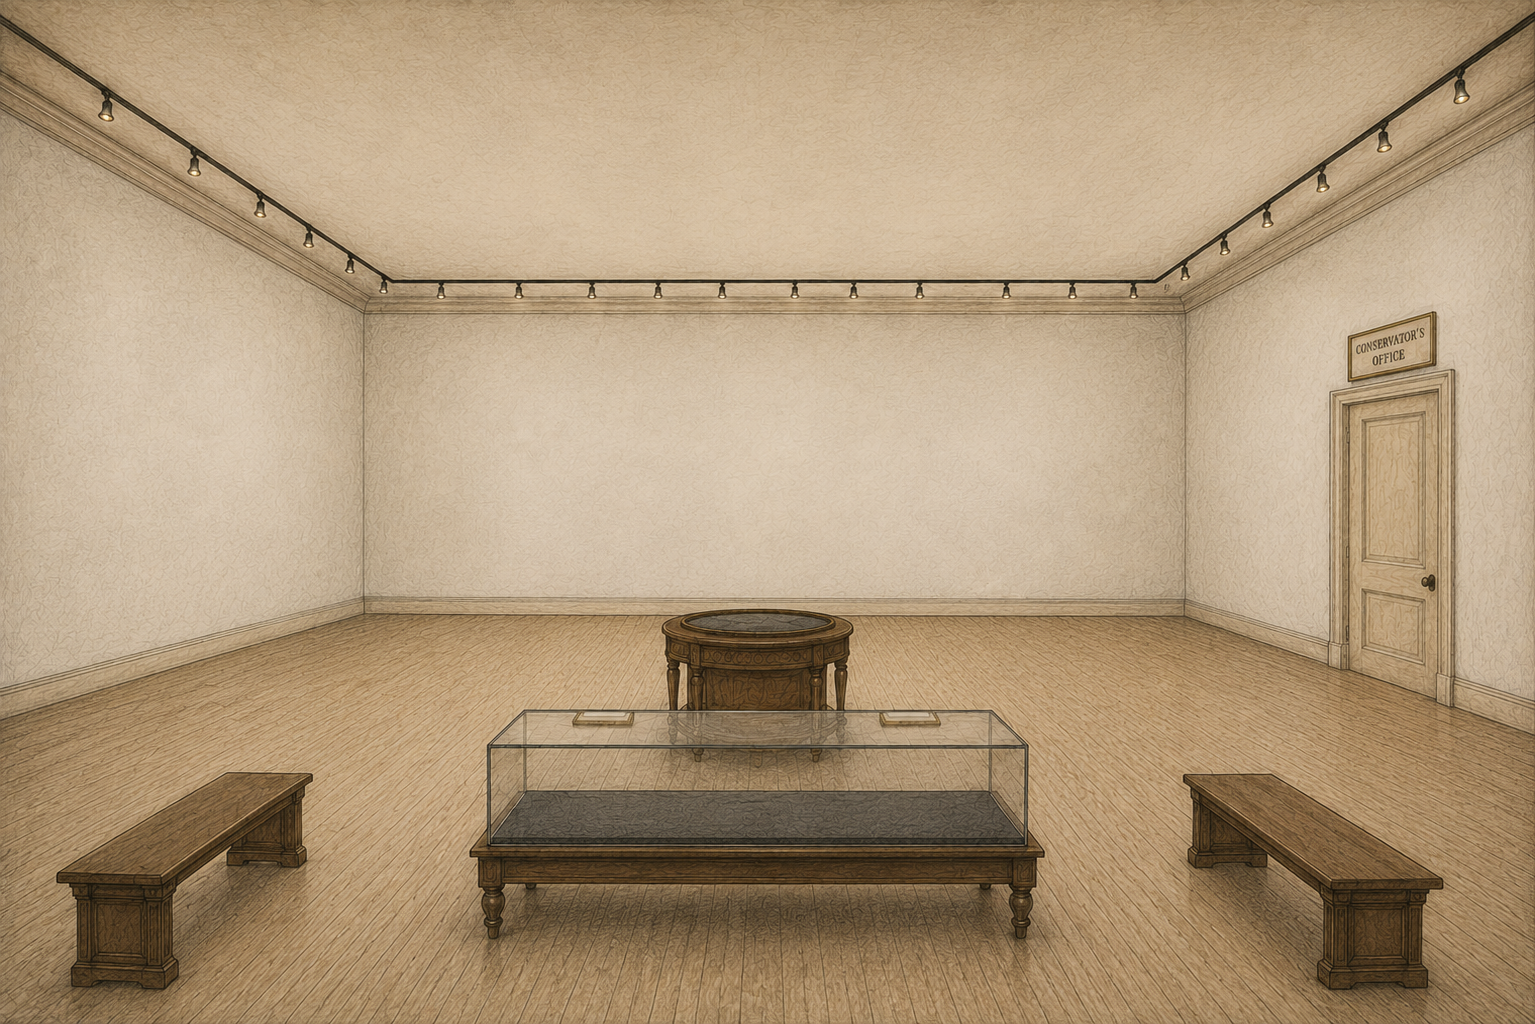
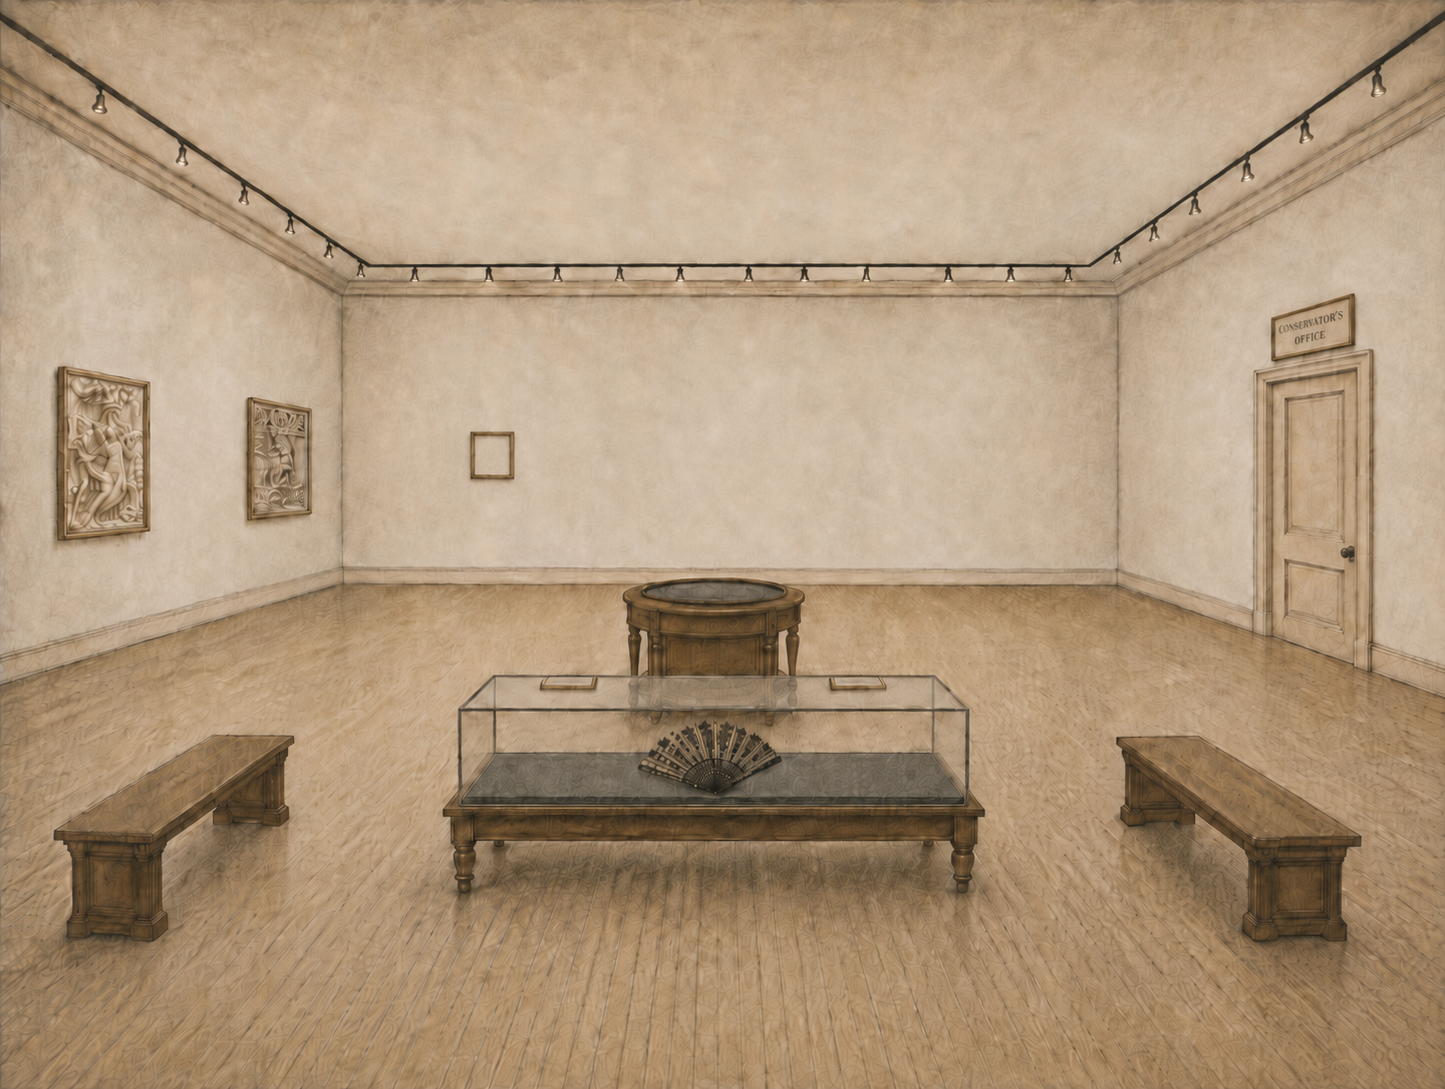
Hook up wall sconce in gallery room with refined SVG overlay positioning

diff --git a/_sass/_custom.scss b/_sass/_custom.scss
@@ -679,23 +679,7 @@
     background: rgba(42, 27, 20, 0.08);
 }
 
-.collection-room-art-hall .art-wall-sconce-display {
-    position: absolute;
-    right: 10.2%;
-    top: 24.9rem;
-    width: 92px;
-    z-index: 4;
-    padding: 0;
-    background: transparent;
-}
 
-.collection-room-art-hall .art-wall-sconce-image {
-    display: block;
-    width: 100%;
-    height: auto;
-    object-fit: contain;
-    filter: drop-shadow(0 8px 10px rgba(0, 0, 0, 0.35));
-}
 
 .welcome-sequence-backdrop {
     position: absolute;
@@ -2225,6 +2209,24 @@
 
 .art-wall-frame-right {
     right: 9.5%;
+}
+
+.art-wall-frame img {
+    position: absolute;
+    inset: 12px;
+    width: calc(100% - 24px);
+    height: calc(100% - 24px);
+    object-fit: contain;
+    border-radius: 12px;
+    cursor: pointer;
+    transition: filter 0.2s ease, transform 0.2s ease;
+}
+
+.art-wall-frame img:hover,
+.art-wall-frame img:focus-visible {
+    filter: brightness(1.08);
+    transform: scale(1.02);
+    outline: none;
 }
 
 .art-access-window {

diff --git a/pages/rooms/gallery.md b/pages/rooms/gallery.md
@@ -26,16 +26,15 @@ permalink: /pages/rooms/gallery.html
         <span class="chandelier-crystal chandelier-crystal-right"></span>
       </div>
 
-      <svg class="art-room-hotspots" viewBox="0 0 1000 1000" preserveAspectRatio="none" xmlns="http://www.w3.org/2000/svg" xmlns:xlink="http://www.w3.org/1999/xlink" aria-label="Gallery room links">
-          <a xlink:href="{{ '/pages/rooms/conservators-office.html' | relative_url }}" aria-label="Enter the Conservator's Office" target="_self">
-          <polygon class="art-room-hotspot" points="873,402 933,389 933,678 873,645" />
-            <text class="art-room-hotspot-label" x="903" text-anchor="middle" font-size="8"><tspan x="903" y="536">Conservator's</tspan><tspan x="903" dy="12">Office</tspan></text>
+      <svg class="art-room-hotspots art-room-hotspots-compact" viewBox="0 0 1000 1000" preserveAspectRatio="none" xmlns="http://www.w3.org/2000/svg" xmlns:xlink="http://www.w3.org/1999/xlink" aria-label="Gallery room links">
+        <a class="art-sconce-trigger" aria-label="View the Roman Wall Sconce" target="_self">
+          <polygon class="art-room-hotspot" points="326,397 354,397 354,437 326,437" />
+        </a>
+        <a xlink:href="{{ '/pages/rooms/conservators-office.html' | relative_url }}" aria-label="Enter the Conservator's Office" target="_self">
+          <polygon class="art-room-hotspot" points="873,352 933,339 933,613 873,585" />
+          <text class="art-room-hotspot-label" x="903" text-anchor="middle" font-size="8"><tspan x="903" y="496">Conservator's</tspan><tspan x="903" dy="12">Office</tspan></text>
         </a>
       </svg>
-
-      <button class="art-wall-sconce-display art-sconce-trigger" type="button" aria-haspopup="dialog" aria-controls="art-sconce-sequence" aria-label="Open Roman wall sconce information" style="position:absolute; right:11.8%; top:25.6rem; width:38px; height:45.6px; z-index:8; padding:0.12rem; border-radius:6px; background:transparent; border:2px solid rgba(181,137,84,0.95); box-shadow:inset 0 0 0 1px rgba(255,231,194,0.45), 0 4px 8px rgba(0,0,0,0.35); cursor:pointer;">
-        <img class="art-wall-sconce-image" src="{{ '/assets/img/RomanWallSconce - 03-06-2026 14-41-38.jpeg' | relative_url | replace: ' ', '%20' }}" alt="Roman wall sconce on display" style="display:block; width:100%; height:100%; object-fit:contain; border-radius:4px; background:transparent;" />
-      </button>
 
       <div class="art-room-plaque">
         <p class="collection-room-kicker">Collection Room</p>

diff --git a/pages/rooms/art.md b/pages/rooms/art.md
@@ -36,7 +36,7 @@ permalink: /pages/rooms/art.html
             <text class="art-room-hotspot-label" x="90" y="625" text-anchor="middle">Natural History</text>
         </a>
         <a class="art-table-overlay-trigger" xlink:href="#" aria-label="Open IU Eskenazi ivories information" target="_self">
-          <polygon class="art-room-hotspot" points="483,607 734,607 790,684 468,693" />
+          <polygon class="art-room-hotspot" points="483,607 731,604 797,681 468,687" />
           <text class="art-room-hotspot-label" x="580" y="657" text-anchor="middle">Eskenazi Ivories</text>
         </a>
       </svg>